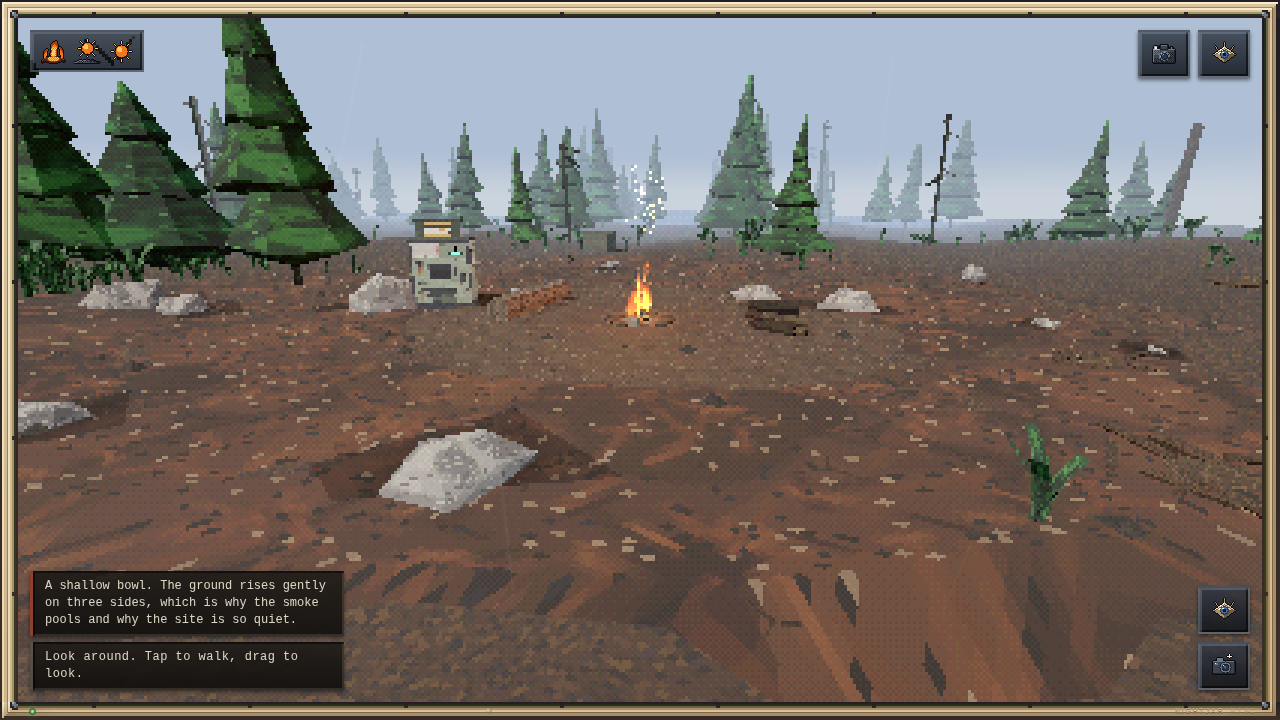
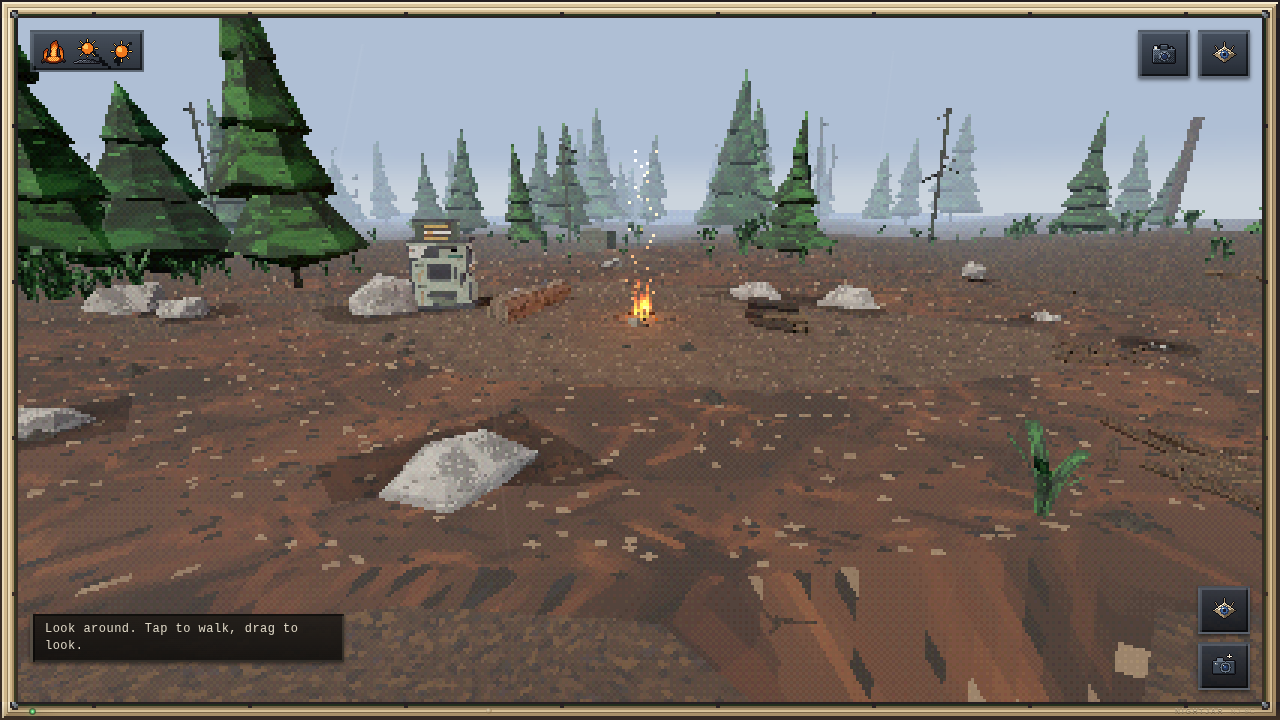
Wear the clearing where people actually walk
The trodden ground was a ring. Lobed by two harmonics, but a ring -- and
a camp whose floor is radially symmetric is a diagram of a camp. Every
critic on the panel asked for the same thing, the clearest being "a paler
compacted lane running from fire to log to machine and off toward the
creek, deep rust needle-duff banked up where nobody steps".

The lanes are not seeded and not decorative. `LAYOUT` puts the machine at
(-2.75, 1.75) and the log people sit on at (-1.5, 0.9) -- bearings of
2.575 and 2.601, which is one run rather than two -- and the woodpile at
about (1.7, -0.9), which is the other. So the two paths are literally
fire-to-log-to-machine and fire-to-woodpile-and-out, which is both what
was asked for and simply where a person at this campsite walks. The
machine's lane reaches furthest because the machine stands at 3.3 m,
outside the trodden ring, so the path has to get there and then past it.

The complement matters as much: the duff banks its litter between the
runs, darker and redder, because the needles swept off a path are where
a path's edge comes from. One `laneInfluence` drives both, so the bare
ground and the deep litter cannot disagree about where the path is.

Measured around the fire at 4.2 m, which the radial profile in
`ground.spec.ts` is structurally blind to -- a path is a difference
between bearings at one radius, not along one. The machine's bearing
reads 102.9, the woodpile's 87.3, and the unstepped litter between them
[…]

diff --git a/apps/web/src/render/geometry.ts b/apps/web/src/render/geometry.ts
@@ -1981,6 +1981,68 @@ export function clearingShade(radius: number): number {
   return 1 + CLEARING_LIFT * (1 - t * t * (3 - 2 * t));
 }
 
+/**
+ * A path worn out of the clearing toward something worth walking to.
+ *
+ * `bearing` is the world angle from the fire, `reach` how much further out the
+ * trodden ground goes along it in metres, and `width` the half-angle it
+ * subtends.
+ */
+export interface WornLane {
+  readonly bearing: number;
+  readonly reach: number;
+  readonly width: number;
+}
+
+/**
+ * How trodden the ground is at a given bearing, 0..1.
+ *
+ * The worn ground was a ring — lobed by two harmonics, but a ring. A camp
+ * does not wear evenly: people go to the machine, to the woodpile, and out
+ * the way they came in, and the ground between those runs keeps its litter.
+ * A panel of three art directors each asked for this in their own words, the
+ * clearest being "a paler compacted lane running from fire to log to machine
+ * and off toward the creek, deep rust needle-duff banked up where nobody
+ * steps".
+ *
+ * The falloff is Gaussian rather than a cone because a path has no edge — it
+ * fades into the litter either side of it, and a hard-edged one would be the
+ * decal failure this ground has already had to be rescued from twice.
+ */
+export function laneInfluence(angle: number, lanes: readonly WornLane[]): number {
+  let most = 0;
+  for (const lane of lanes) {
+    most = Math.max(most, laneFalloff(angle, lane));
+  }
+  return most;
+}
+
+/**
+ * How much further out the trodden ground goes at this bearing, in metres.
+ *
+ * Separate from `laneInfluence` because the two are different questions: how
+ * *worn* the ground is here, which is a ratio, and how far the wear *reaches*,
+ * which is a distance. Folding them into one number and multiplying by the
+ * first lane's reach — as the first version of this did — gives every lane the
+ * first one's length and throws outright when there are none.
+ */
+export function laneReach(angle: number, lanes: readonly WornLane[]): number {
+  let most = 0;
+  for (const lane of lanes) {
+    most = Math.max(most, lane.reach * laneFalloff(angle, lane));
+  }
+  return most;
+}
+
+function laneFalloff(angle: number, lane: WornLane): number {
+  // Shortest way round the circle, so a lane at 3.1 rad still reaches a
+  // spoke at -3.1.
+  let delta = angle - lane.bearing;
+  delta = Math.atan2(Math.sin(delta), Math.cos(delta));
+  const t = delta / lane.width;
+  return Math.exp(-t * t);
+}
+
 export function createGroundCoverGeometry(options: {
   seed: number;
   /**
@@ -2002,6 +2064,8 @@ export function createGroundCoverGeometry(options: {
   /** Metres per texture tile, per piece. */
   wornTile?: number;
   duffTile?: number;
+  /** Paths worn out of the clearing. See `laneInfluence`. */
+  lanes?: readonly WornLane[];
 }): GroundCover {
   const seed = options.seed;
   const innerRadius = options.innerRadius ?? 0.58;
@@ -2026,6 +2090,7 @@ export function createGroundCoverGeometry(options: {
    * to be visible.
    */
   const duffTile = options.duffTile ?? 2;
+  const lanes = options.lanes ?? [];
   const height = options.height;
 
   /*
@@ -2041,7 +2106,10 @@ export function createGroundCoverGeometry(options: {
     const angle = (s / spokes) * Math.PI * 2;
     const lobe = Math.sin(angle * 2 + phaseA) * 0.42 + Math.sin(angle * 3 + phaseB) * 0.26;
     const grain = valueNoise2D(Math.cos(angle) * 4, Math.sin(angle) * 4, seed ^ 0x77a3) - 0.5;
-    boundary[s] = wornRadius * (1 + lobe * 0.22) + grain * 0.5;
+    // And the paths, which is what turns a ring into a camp. The lobes above
+    // are still there: a lane is where people go *most*, not the only place
+    // the ground is bare.
+    boundary[s] = wornRadius * (1 + lobe * 0.22) + grain * 0.5 + laneReach(angle, lanes);
   }
 
   /** Radii for one piece, packed toward the inside so the near ground is finer. */
@@ -2201,7 +2269,16 @@ export function createGroundCoverGeometry(options: {
       // Faded out at the rim so the mat has no edge, and thickest just outside
       // the worn ring where the sweeping piled it up.
       const fade = 1 - radial * radial;
-      const bank = clamp01(1 - radial / 0.3) * 0.05;
+      /*
+       * Litter banked where nobody steps.
+       *
+       * The complement of the lanes, and the other half of what makes a path
+       * read as a path: the ground between the runs is not merely un-swept,
+       * it is where the needles that were swept off the runs ended up. Deeper
+       * litter is darker and redder, so this both darkens and warms.
+       */
+      const between = 1 - laneInfluence(Math.atan2(z, x), lanes);
+      const bank = clamp01(1 - radial / 0.3) * 0.05 + between * 0.07;
       /*
        * The walk out to the trees, which the floor never had.
        *

diff --git a/e2e/ground.spec.ts b/e2e/ground.spec.ts
@@ -155,6 +155,86 @@ test.describe('the clearing floor', () => {
     );
 
     /*
+     * And the other axis, which the profile above is blind to.
+     *
+     * A radial profile cannot see a path, because a path is a difference
+     * between bearings at the same radius. The worn ground used to be a ring
+     * -- lobed by two harmonics, but a ring -- and a camp does not wear
+     * evenly: people go to the machine, to the woodpile, and out the way they
+     * came in. `LAYOUT` puts the machine at a bearing of 2.58 and the log at
+     * 2.60, which is one run; the woodpile is at about -0.49, which is the
+     * other.
+     */
+    const sweep: { bearing: number; mean: number }[] = [];
+    for (let i = 0; i < 12; i += 1) {
+      const bearing = (i / 12) * Math.PI * 2 - Math.PI;
+      await page.evaluate(
+        ([b, ahead]) => {
+          const player = window.__someMore!.player!;
+          const stand = Math.max(0.1, 4.2 - (ahead as number));
+          player.position.x = Math.cos(b as number) * stand;
+          player.position.z = Math.sin(b as number) * stand;
+          player.facing = b as number;
+          player.pitch = -0.85;
+        },
+        [bearing, LOOK_AHEAD] as const,
+      );
+      await page.waitForTimeout(420);
+      const image = decodePng(await page.screenshot({ clip: box }));
+      let total = 0;
+      for (let px = 0; px < image.width * image.height; px += 1) {
+        total +=
+          0.299 * image.data[px * 3]! + 0.587 * image.data[px * 3 + 1]! + 0.114 * image.data[px * 3 + 2]!;
+      }
+      sweep.push({ bearing, mean: total / (image.width * image.height) });
+    }
+
+    // eslint-disable-next-line no-console
+    console.log(
+      '\n  ground value around the fire at 4.2 m\n' +
+        sweep
+          .map((p) => `    bearing ${p.bearing.toFixed(2).padStart(5)}   value ${p.mean.toFixed(1).padStart(5)}`)
+          .join('\n') +
+        '\n',
+    );
+
+    const around = sweep.map((p) => p.mean);
+    const anisotropy = Math.max(...around) - Math.min(...around);
+
+    /*
+     * The law: the floor is not the same in every direction.
+     *
+     * A camp whose ground is radially symmetric is a diagram of a camp. This
+     * is deliberately a floor with no ceiling — the lanes are allowed to get
+     * as strong as an art director wants, and what must never come back is
+     * the ring.
+     */
+    expect(
+      anisotropy,
+      `the clearing wears evenly in every direction, which no camp does: ${around.map((m) => m.toFixed(0)).join(', ')}`,
+    ).toBeGreaterThan(6);
+
+    /*
+     * And it runs where the camp's things are, rather than anywhere. The
+     * machine's bearing must be better trodden than the ground at right
+     * angles to it, or the lane is pointing at nothing.
+     */
+    const at = (bearing: number): number => {
+      let best = sweep[0]!;
+      for (const point of sweep) {
+        const d = Math.abs(Math.atan2(Math.sin(point.bearing - bearing), Math.cos(point.bearing - bearing)));
+        const bd = Math.abs(Math.atan2(Math.sin(best.bearing - bearing), Math.cos(best.bearing - bearing)));
+        if (d < bd) best = point;
+      }
+      return best.mean;
+    };
+    const machineBearing = Math.atan2(1.75, -2.75);
+    expect(
+      at(machineBearing),
+      'the path to the machine is no more worn than the litter beside it',
+    ).toBeGreaterThan(at(machineBearing + Math.PI / 2));
+
+    /*
      * And a picture of the thing the numbers are about.
      *
      * A profile is the right instrument for "is there a ladder" and a useless

diff --git a/apps/web/src/scene/Campsite.tsx b/apps/web/src/scene/Campsite.tsx
@@ -31,6 +31,7 @@ import {
   type SkyLook,
 } from '../render/daylight.js';
 import { TIER_TINT, starTier } from './NightSky.js';
+import { LAYOUT } from './layout.js';
 
 /** Ground below this is under water, so nothing is planted in it. */
 const WATERLINE = -0.14;
@@ -795,6 +796,32 @@ export function Campsite({
    * in this scene that should shrink, since it is what the player is standing
    * on.
    */
+  /**
+   * Where the camp has worn paths, taken from where the camp's things are.
+   *
+   * Not seeded, and not decorative. `LAYOUT` puts the machine at (-2.75, 1.75)
+   * and the log people sit on at (-1.5, 0.9) — bearings of 2.575 and 2.601,
+   * which is one run, not two — and the woodpile at about (1.7, -0.9), which
+   * is the other. So the two lanes are literally "fire to log to machine" and
+   * "fire to woodpile and out to the wood", which is what a panel of three
+   * critics asked for and is also just where a person at this campsite
+   * actually walks.
+   *
+   * The machine lane reaches furthest because the machine stands at 3.3 m,
+   * outside the trodden ring, so the path has to get there and then past it.
+   */
+  const wornLanes = useMemo(
+    () => [
+      {
+        bearing: Math.atan2(LAYOUT.machine[2], LAYOUT.machine[0]),
+        reach: 2.6,
+        width: 0.5,
+      },
+      { bearing: Math.atan2(-0.9, 1.7), reach: 1.8, width: 0.42 },
+    ],
+    [],
+  );
+
   const groundCover = useMemo(
     () =>
       createGroundCoverGeometry({
@@ -802,8 +829,9 @@ export function Campsite({
         spokes: drawDistance < 26 ? 14 : drawDistance < 36 ? 20 : 26,
         outerRadius: 9.4,
         height: groundAt,
+        lanes: wornLanes,
       }),
-    [seed, groundAt, drawDistance],
+    [seed, groundAt, drawDistance, wornLanes],
   );
   useEffect(
     () => () => {
